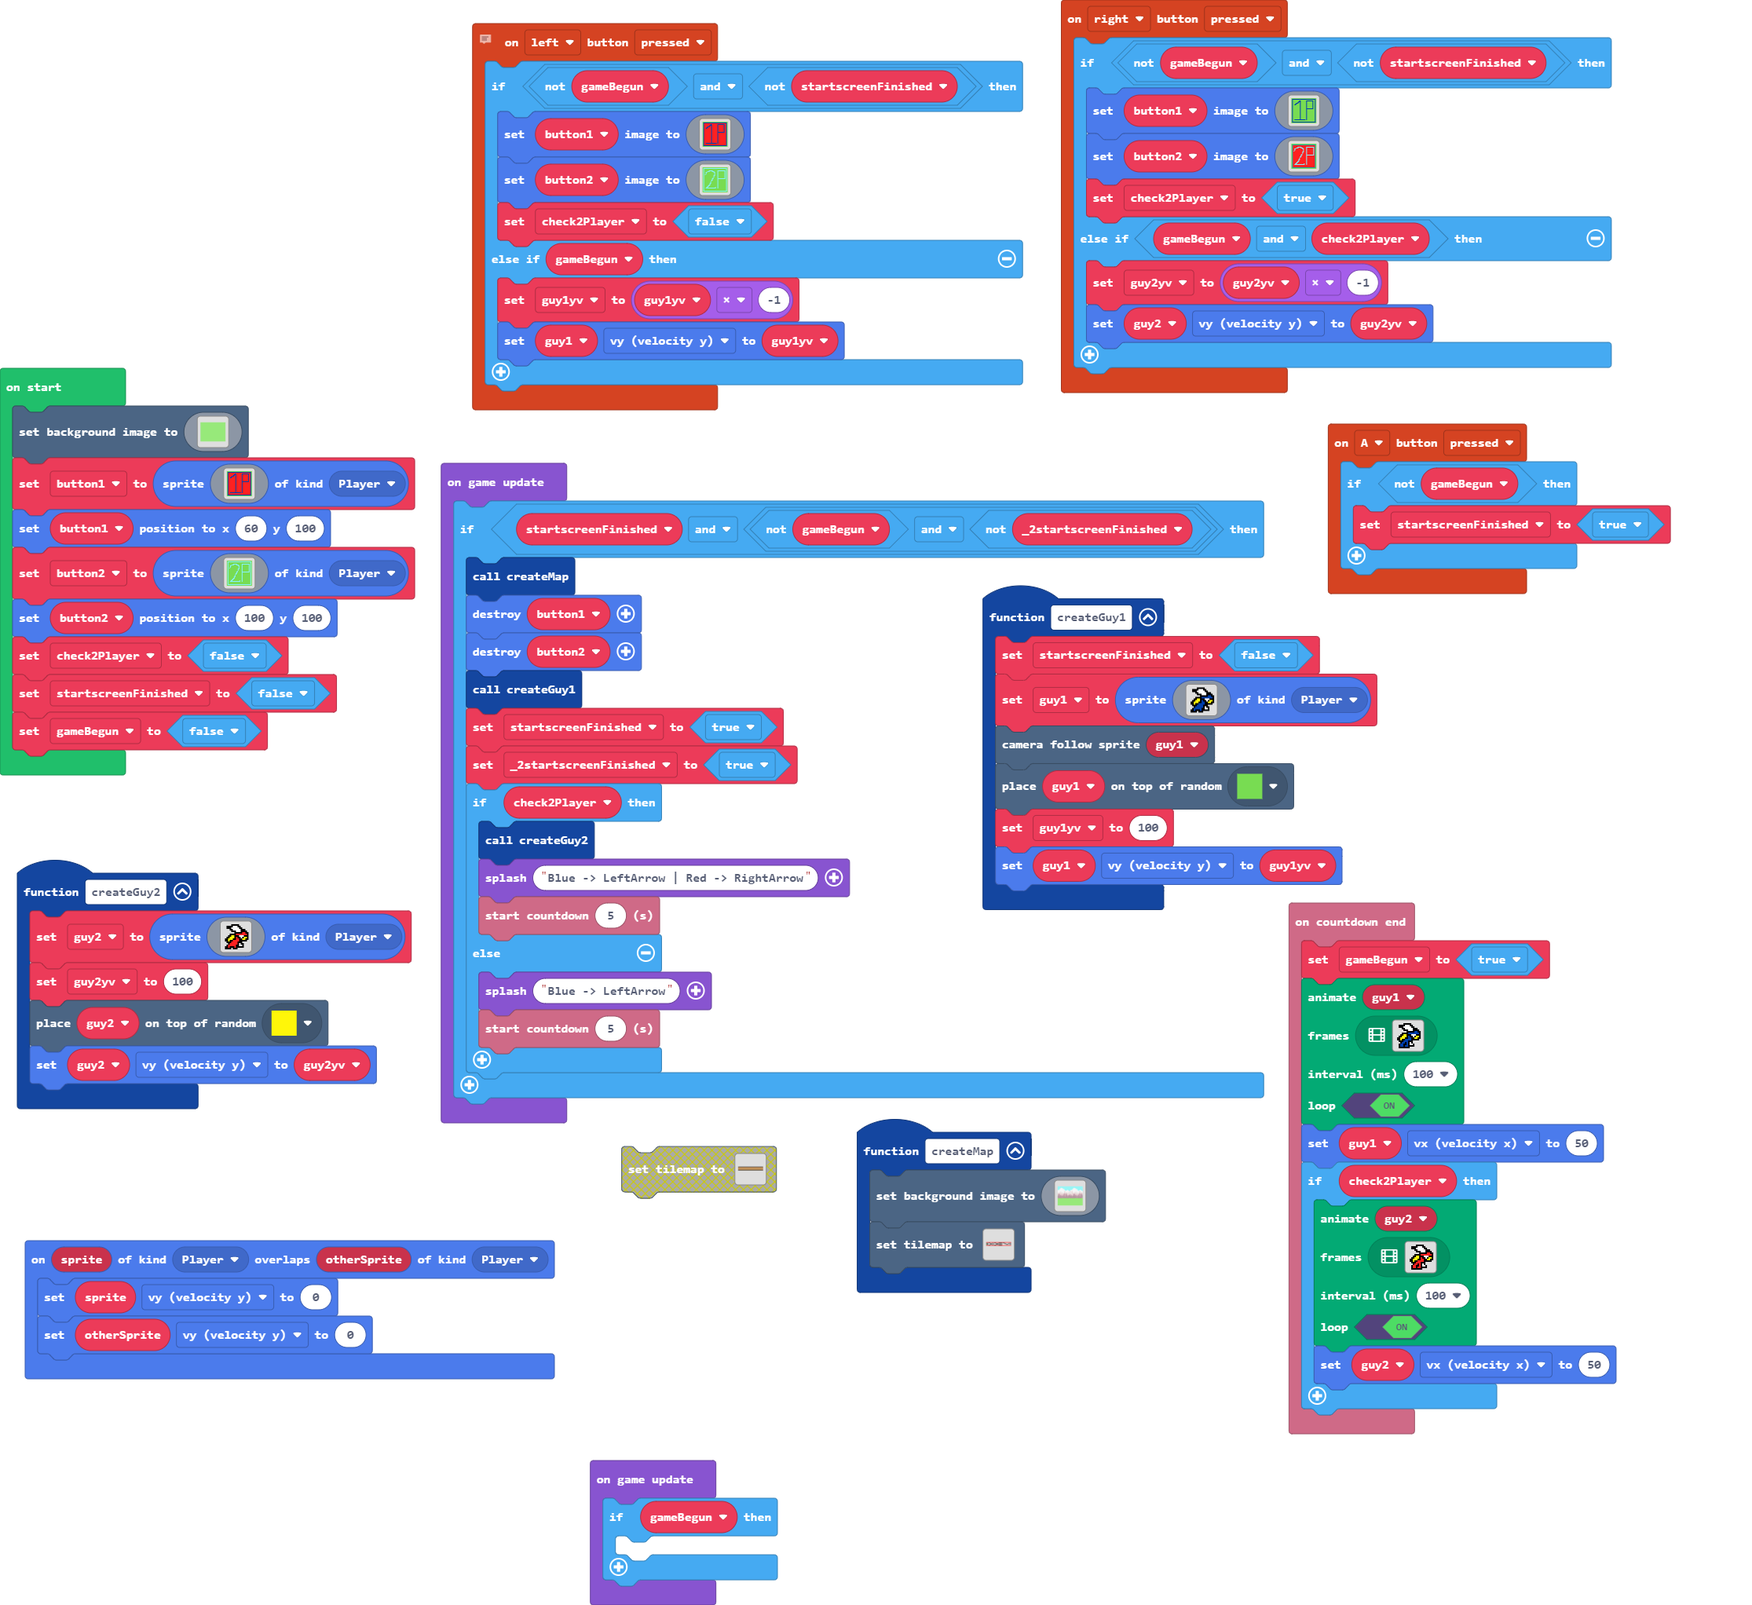
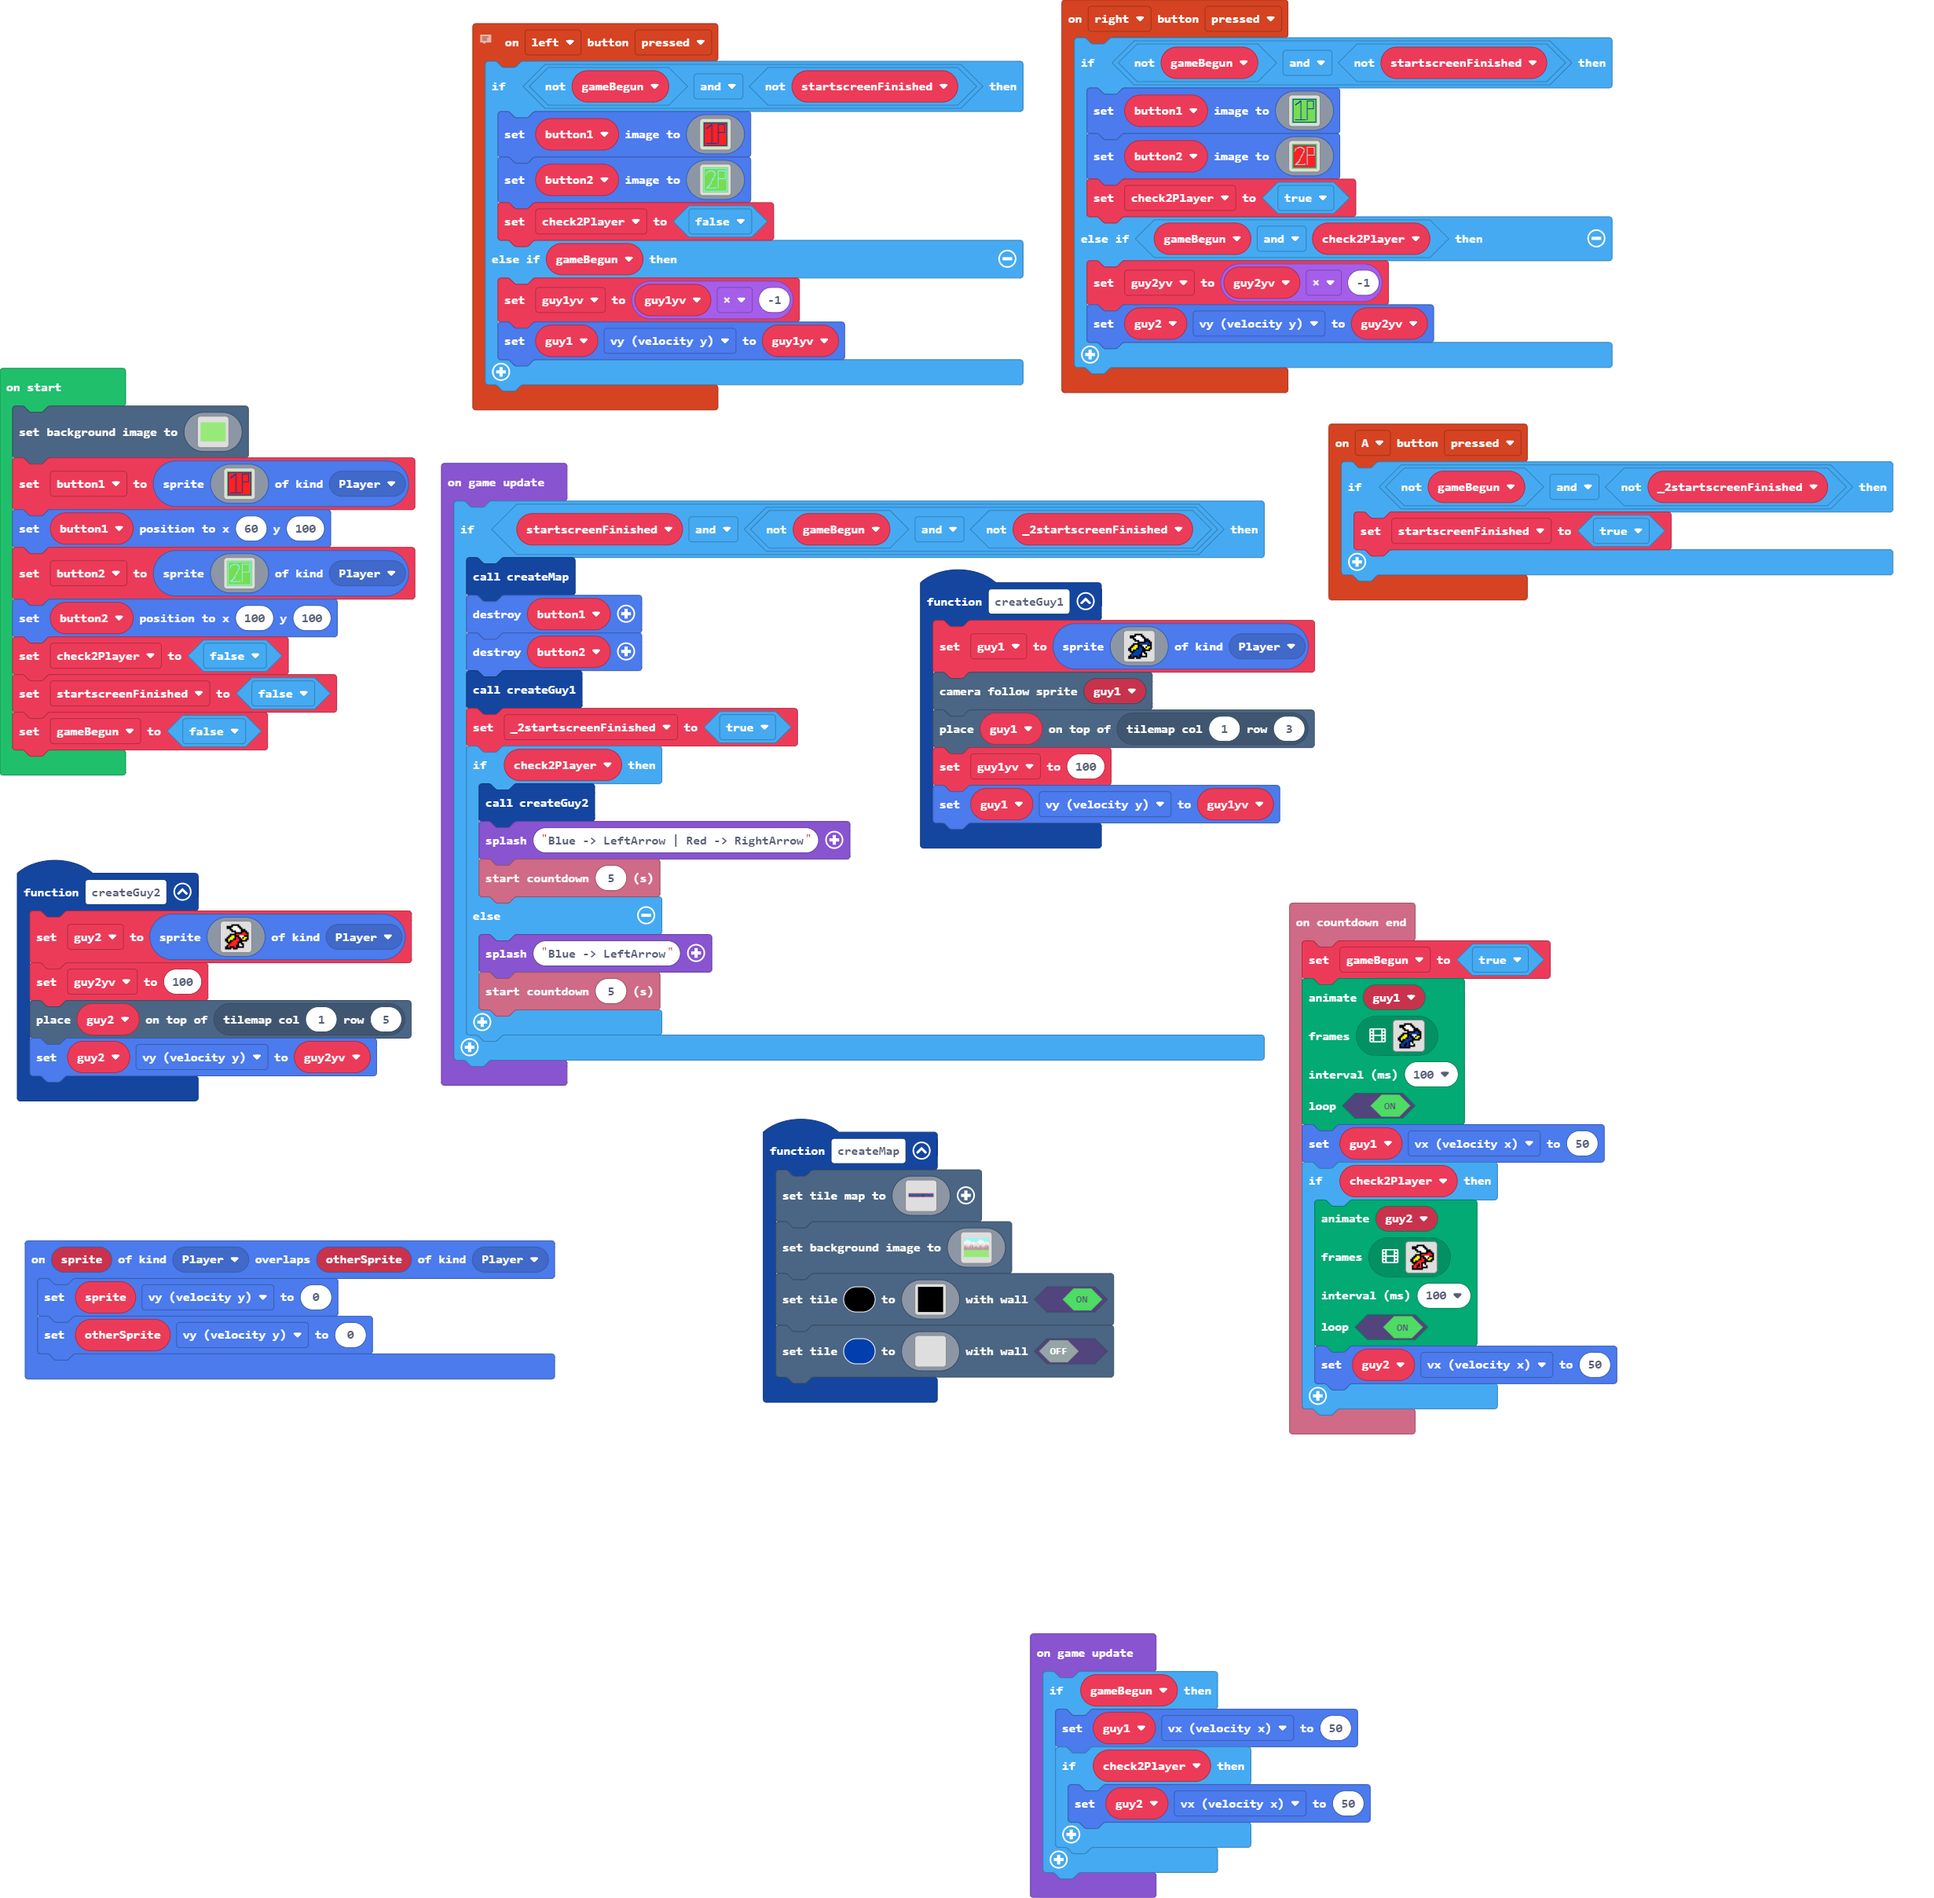
Update main.blocks, main.ts, tilemap.g.jres, tilemap.g.ts

diff --git a/tilemap.g.ts b/tilemap.g.ts
@@ -15,25 +15,6 @@ namespace myTiles {
 
     helpers._registerFactory("tilemap", function(name: string) {
         switch(helpers.stringTrim(name)) {
-            case "level2":
-            case "level2":return tiles.createTilemap(hex`1000100000000000000000000000000000000000000000000000000000000000000000000000000000000000000000000000000000000000000000000000000000000000000000000000000000000000000000000000000000000000000000000000000000000000000000000000000000000000000000000000000000000000000000000000000000000000000000000000000000000000000000000000000000000000000000000000000000000000000000000000000000000000000000000000000000000000000000000000000000000000000000000000000000000000000000000000000000000000000000000000000000000000000000000000000000000000`, img`
-. . . . . . . . . . . . . . . . 
-. . . . . . . . . . . . . . . . 
-. . . . . . . . . . . . . . . . 
-. . . . . . . . . . . . . . . . 
-. . . . . . . . . . . . . . . . 
-. . . . . . . . . . . . . . . . 
-. . . . . . . . . . . . . . . . 
-. . . . . . . . . . . . . . . . 
-. . . . . . . . . . . . . . . . 
-. . . . . . . . . . . . . . . . 
-. . . . . . . . . . . . . . . . 
-. . . . . . . . . . . . . . . . 
-. . . . . . . . . . . . . . . . 
-. . . . . . . . . . . . . . . . 
-. . . . . . . . . . . . . . . . 
-. . . . . . . . . . . . . . . . 
-`, [myTiles.transparency16], TileScale.Sixteen);
             case "level3":
             case "level3":return tiles.createTilemap(hex`1000100000000000000000000000000000000000000000000000000000000000000000000000000000000000000000000000000000000000000000000000000000000000000000000000000000000000000000000000000000000000000000000000000000000000000000000000000000000000000000000000000000000000000000000000000000000000000000000000000000000000000000000000000000000000000000000000000000000000000000000000000000000000000000000000000000000000000000000000000000000000000000000000000000000000000000000000000000000000000000000000000000000000000000000000000000000000`, img`
 . . . . . . . . . . . . . . . . 
@@ -77,6 +58,63 @@ namespace myTiles {
 ................................................................
 ................................................................
 `, [myTiles.transparency16,myTiles.tile1,myTiles.tile2,myTiles.tile4,myTiles.tile3,myTiles.tile5], TileScale.Sixteen);
+            case "level5":
+            case "level5":return tiles.createTilemap(hex`1000100000000000000000000000000000000000000000000000000000000000000000000000000000000000000000000000000000000000000000000000000000000000000000000000000000000000000000000000000000000000000000000000000000000000000000000000000000000000000000000000000000000000000000000000000000000000000000000000000000000000000000000000000000000000000000000000000000000000000000000000000000000000000000000000000000000000000000000000000000000000000000000000000000000000000000000000000000000000000000000000000000000000000000000000000000000000`, img`
+. . . . . . . . . . . . . . . . 
+. . . . . . . . . . . . . . . . 
+. . . . . . . . . . . . . . . . 
+. . . . . . . . . . . . . . . . 
+. . . . . . . . . . . . . . . . 
+. . . . . . . . . . . . . . . . 
+. . . . . . . . . . . . . . . . 
+. . . . . . . . . . . . . . . . 
+. . . . . . . . . . . . . . . . 
+. . . . . . . . . . . . . . . . 
+. . . . . . . . . . . . . . . . 
+. . . . . . . . . . . . . . . . 
+. . . . . . . . . . . . . . . . 
+. . . . . . . . . . . . . . . . 
+. . . . . . . . . . . . . . . . 
+. . . . . . . . . . . . . . . . 
+`, [myTiles.transparency16], TileScale.Sixteen);
+            case "level6":
+            case "level6":return tiles.createTilemap(hex`1000100000000000000000000000000000000000000000000000000000000000000000000000000000000000000000000000000000000000000000000000000000000000000000000000000000000000000000000000000000000000000000000000000000000000000000000000000000000000000000000000000000000000000000000000000000000000000000000000000000000000000000000000000000000000000000000000000000000000000000000000000000000000000000000000000000000000000000000000000000000000000000000000000000000000000000000000000000000000000000000000000000000000000000000000000000000000`, img`
+. . . . . . . . . . . . . . . . 
+. . . . . . . . . . . . . . . . 
+. . . . . . . . . . . . . . . . 
+. . . . . . . . . . . . . . . . 
+. . . . . . . . . . . . . . . . 
+. . . . . . . . . . . . . . . . 
+. . . . . . . . . . . . . . . . 
+. . . . . . . . . . . . . . . . 
+. . . . . . . . . . . . . . . . 
+. . . . . . . . . . . . . . . . 
+. . . . . . . . . . . . . . . . 
+. . . . . . . . . . . . . . . . 
+. . . . . . . . . . . . . . . . 
+. . . . . . . . . . . . . . . . 
+. . . . . . . . . . . . . . . . 
+. . . . . . . . . . . . . . . . 
+`, [myTiles.transparency16], TileScale.Sixteen);
+            case "level2":
+            case "level2":return tiles.createTilemap(hex`1000100000000000000000000000000000000000000000000000000000000000000000000000000000000000000000000000000000000000000000000000000000000000000000000000000000000000000000000000000000000000000000000000000000000000000000000000000000000000000000000000000000000000000000000000000000000000000000000000000000000000000000000000000000000000000000000000000000000000000000000000000000000000000000000000000000000000000000000000000000000000000000000000000000000000000000000000000000000000000000000000000000000000000000000000000000000000`, img`
+. . . . . . . . . . . . . . . . 
+. . . . . . . . . . . . . . . . 
+. . . . . . . . . . . . . . . . 
+. . . . . . . . . . . . . . . . 
+. . . . . . . . . . . . . . . . 
+. . . . . . . . . . . . . . . . 
+. . . . . . . . . . . . . . . . 
+. . . . . . . . . . . . . . . . 
+. . . . . . . . . . . . . . . . 
+. . . . . . . . . . . . . . . . 
+. . . . . . . . . . . . . . . . 
+. . . . . . . . . . . . . . . . 
+. . . . . . . . . . . . . . . . 
+. . . . . . . . . . . . . . . . 
+. . . . . . . . . . . . . . . . 
+. . . . . . . . . . . . . . . . 
+`, [myTiles.transparency16], TileScale.Sixteen);
         }
         return null;
     })

diff --git a/main.ts b/main.ts
@@ -1,4 +1,15 @@
 function createMap () {
+    scene.setTileMap(img`
+        2222222222222222222222222222222222222222222222222222222222222222
[7 lines of base64/hex data omitted]
+        2222222222222222222222222222222222222222222222222222222222222222
+        `)
     scene.setBackgroundImage(img`
         9999999999999999999999999999999999999999999999999999999999999999999999999999999999999999999999999999999999999999999999999999999999999999999999999999999999999999
         9999999999999999999999999999999999999999999999999999999999999999999999999999999999999999999999999999999999999999999999999999999999999999999999999999999999999999
@@ -121,16 +132,51 @@ function createMap () {
         7777777777777777777777777777777777777777777777777777777777777777777777777777777777777777777777777777777777777777777777777777777777777777777777777777777777777777
         7777777777777777777777777777777777777777777777777777777777777777777777777777777777777777777777777777777777777777777777777777777777777777777777777777777777777777
         `)
-    tiles.setTilemap(tilemap`level4`)
+    scene.setTile(15, img`
+        f f f f f f f f f f f f f f f f 
+        f f f f f f f f f f f f f f f f 
+        f f f f f f f f f f f f f f f f 
+        f f f f f f f f f f f f f f f f 
+        f f f f f f f f f f f f f f f f 
+        f f f f f f f f f f f f f f f f 
+        f f f f f f f f f f f f f f f f 
+        f f f f f f f f f f f f f f f f 
+        f f f f f f f f f f f f f f f f 
+        f f f f f f f f f f f f f f f f 
+        f f f f f f f f f f f f f f f f 
+        f f f f f f f f f f f f f f f f 
+        f f f f f f f f f f f f f f f f 
+        f f f f f f f f f f f f f f f f 
+        f f f f f f f f f f f f f f f f 
+        f f f f f f f f f f f f f f f f 
+        `, true)
+    scene.setTile(8, img`
+        . . . . . . . . . . . . . . . . 
+        . . . . . . . . . . . . . . . . 
+        . . . . . . . . . . . . . . . . 
+        . . . . . . . . . . . . . . . . 
+        . . . . . . . . . . . . . . . . 
+        . . . . . . . . . . . . . . . . 
+        . . . . . . . . . . . . . . . . 
+        . . . . . . . . . . . . . . . . 
+        . . . . . . . . . . . . . . . . 
+        . . . . . . . . . . . . . . . . 
+        . . . . . . . . . . . . . . . . 
+        . . . . . . . . . . . . . . . . 
+        . . . . . . . . . . . . . . . . 
+        . . . . . . . . . . . . . . . . 
+        . . . . . . . . . . . . . . . . 
+        . . . . . . . . . . . . . . . . 
+        `, false)
 }
 function createGuy2 () {
     guy2 = sprites.create(assets.image`guy2`, SpriteKind.Player)
     guy2yv = 100
-    tiles.placeOnRandomTile(guy2, assets.tile`myTile3`)
+    tiles.placeOnTile(guy2, tiles.getTileLocation(1, 5))
     guy2.vy = guy2yv
 }
 controller.A.onEvent(ControllerButtonEvent.Pressed, function () {
-    if (!(gameBegun)) {
+    if (!(gameBegun) && !(_2startscreenFinished)) {
         startscreenFinished = true
     }
 })
@@ -154,10 +200,9 @@ controller.left.onEvent(ControllerButtonEvent.Pressed, function () {
     }
 })
 function createGuy1 () {
-    startscreenFinished = false
     guy1 = sprites.create(assets.image`guy1`, SpriteKind.Player)
     scene.cameraFollowSprite(guy1)
-    tiles.placeOnRandomTile(guy1, assets.tile`myTile`)
+    tiles.placeOnTile(guy1, tiles.getTileLocation(1, 3))
     guy1yv = 100
     guy1.vy = guy1yv
 }
@@ -330,9 +375,9 @@ sprites.onOverlap(SpriteKind.Player, SpriteKind.Player, function (sprite, otherS
     sprite.vy = 0
     otherSprite.vy = 0
 })
-let _2startscreenFinished = false
 let guy1: Sprite = null
 let guy1yv = 0
+let _2startscreenFinished = false
 let guy2yv = 0
 let guy2: Sprite = null
 let gameBegun = false
@@ -475,7 +520,6 @@ game.onUpdate(function () {
         button1.destroy()
         button2.destroy()
         createGuy1()
-        startscreenFinished = true
         _2startscreenFinished = true
         if (check2Player) {
             createGuy2()
@@ -489,6 +533,9 @@ game.onUpdate(function () {
 })
 game.onUpdate(function () {
     if (gameBegun) {
-    	
+        guy1.vx = 50
+        if (check2Player) {
+            guy2.vx = 50
+        }
     }
 })
